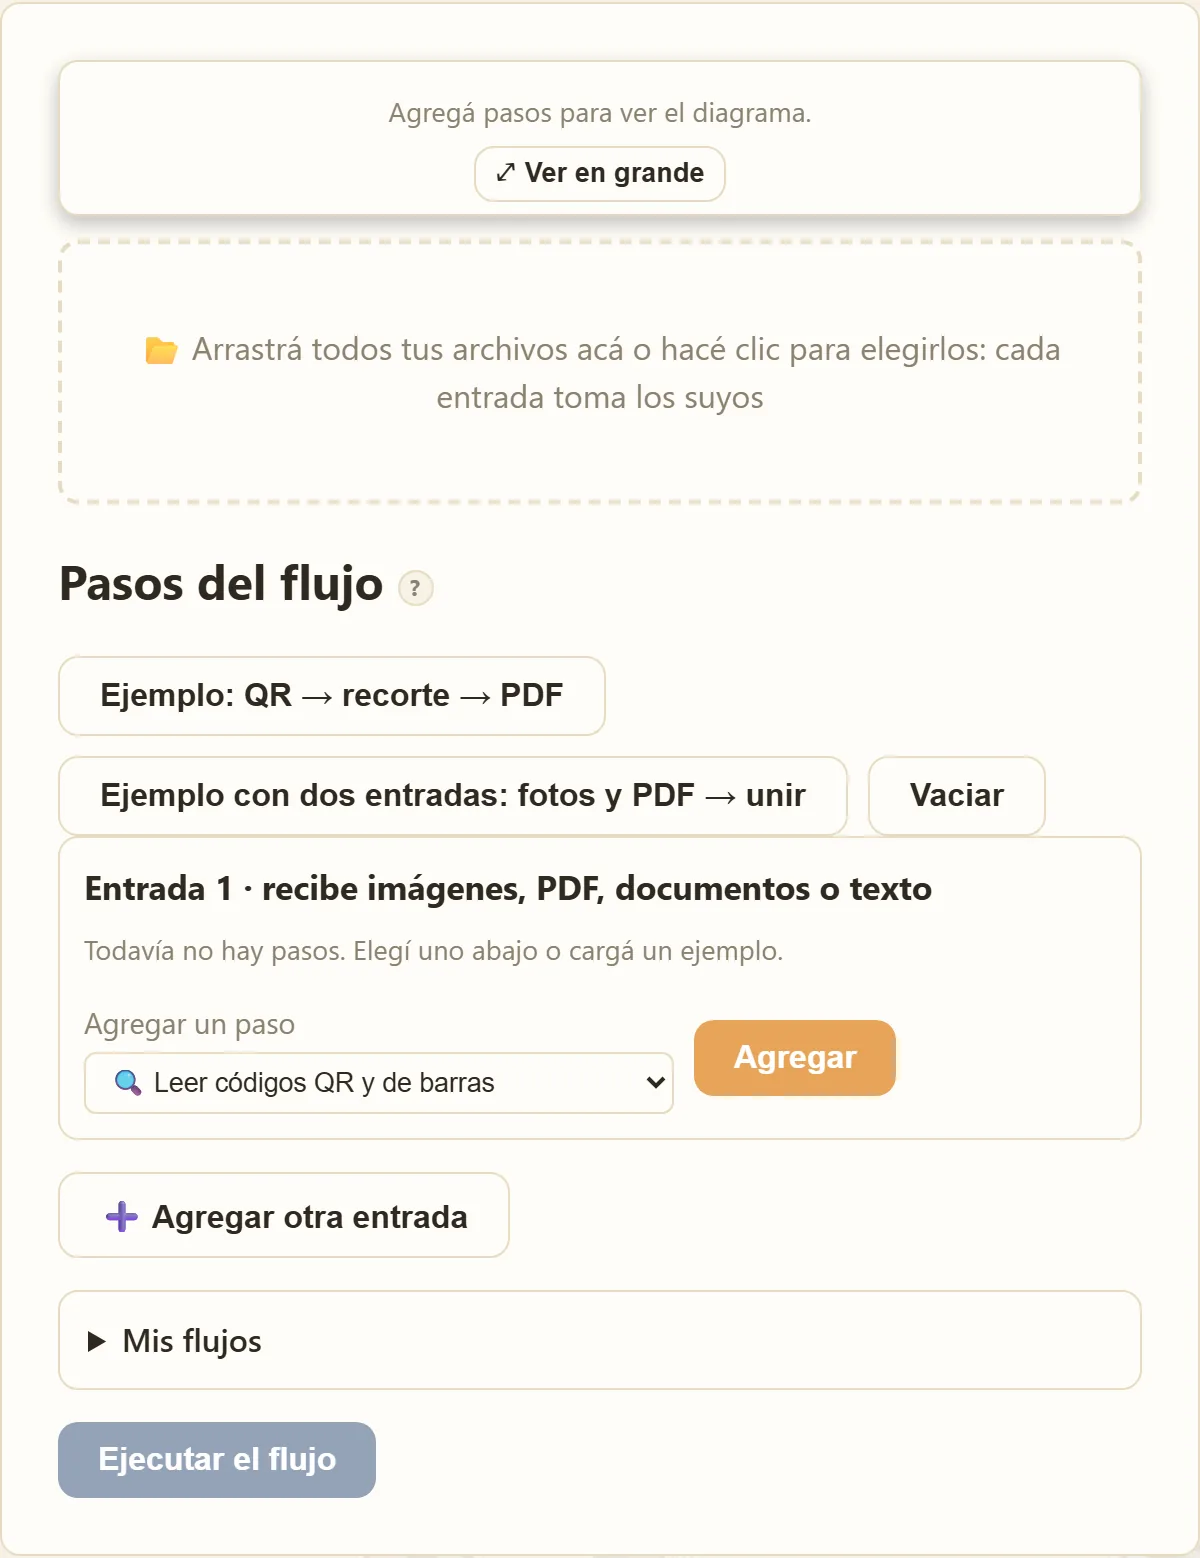
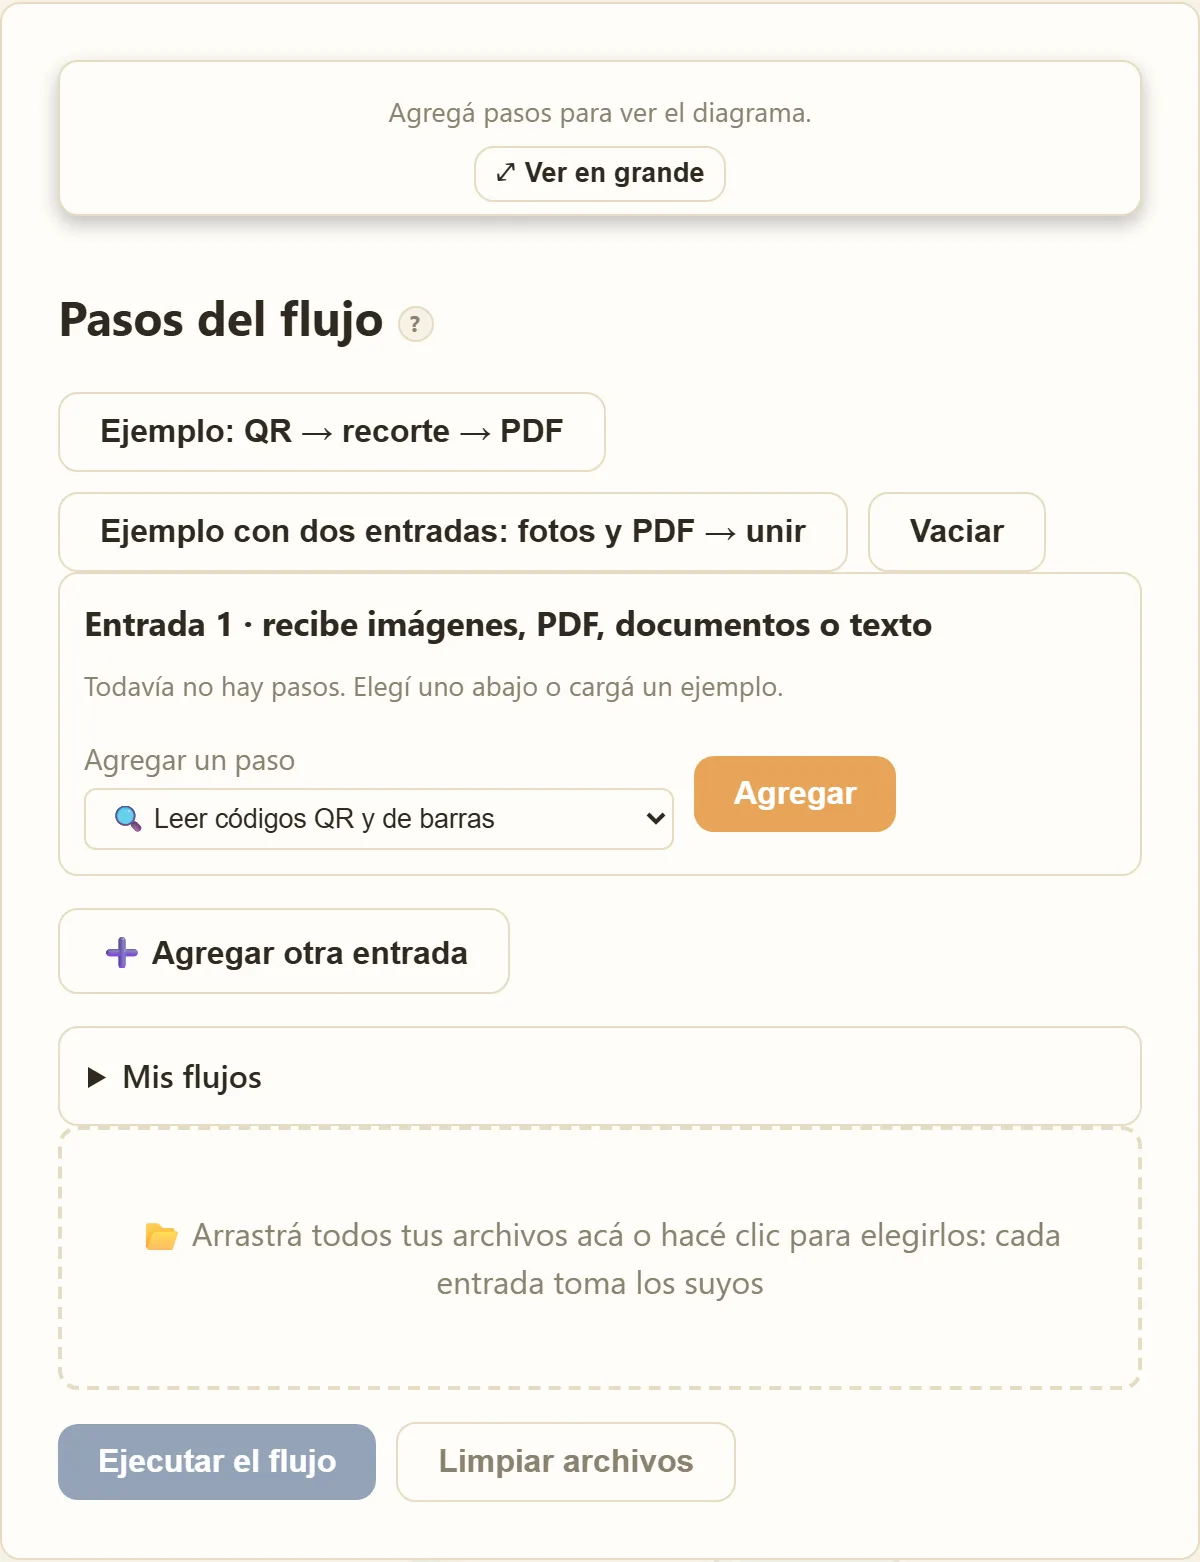
Flujos guide: new position of the file area, Clear files button, new screenshot

diff --git a/guias/encadenar-herramientas-con-flujos.html b/guias/encadenar-herramientas-con-flujos.html
@@ -23,9 +23,9 @@ window.i18nPagina = {
     'b6-1': 'Elegí el primer paso de la «Entrada 1». Ese paso decide qué recibe la entrada: el encabezado dice, por ejemplo, «Entrada 1 · recibe imágenes».',
     'b6-2': 'Agregá los siguientes con «Agregar». La lista solo ofrece los pasos que reciben lo que sale del anterior, así que no se puede armar una cadena imposible.',
     'b6-3': 'Ajustá las opciones de cada paso. Los valores por defecto sirven para empezar. Si tenés otra clase de archivo, tocá «Agregar otra entrada» (hasta cuatro).',
-    'b6-4': 'Arrastrá todos los archivos a la zona: cada entrada toma los de su tipo. El resumen dice qué va a salir, por ejemplo «Entrega: PDF.» Después tocá «Ejecutar el flujo», que se activa cuando el flujo está bien armado y hay archivos.',
+    'b6-4': 'Abajo, justo encima de «Ejecutar el flujo», está la zona de archivos: arrastrá ahí todos los archivos, y cada entrada toma los de su tipo. El resumen dice qué va a salir, por ejemplo «Entrega: PDF.» Después tocá «Ejecutar el flujo», que se activa cuando el flujo está bien armado y hay archivos. «Limpiar archivos», al lado, los quita para empezar con otros sin tocar los pasos.',
     'b6-5': 'Con un solo resultado aparece «Descargar» con su nombre. Con varios, «Descargar todo (.zip)».',
-    'b7': 'Flujos al abrirlo: todavía sin pasos, con los dos ejemplos listos para cargar y el primer paso por elegir.',
+    'b7': 'Flujos al abrirlo: todavía sin pasos, con los dos ejemplos listos para cargar y, al final, la zona de archivos con «Ejecutar el flujo» y «Limpiar archivos» al lado.',
     'b7-src': '/guias/img/flujos-1.es.webp',
     'b7-srco': '/guias/img/flujos-1.oscuro.es.webp',
     'b8': 'Con «Ver en grande» se abre el diagrama completo del flujo, con cada paso en el orden en que se aplica.',
@@ -112,9 +112,9 @@ window.i18nPagina = {
     'b6-1': 'Pick the first step of “Input 1”. That step decides what the input takes: the heading says, for example, “Input 1 · takes images”.',
     'b6-2': 'Add the next ones with “Add”. The list only offers the steps that take what the previous one produces, so you cannot build an impossible chain.',
     'b6-3': 'Adjust the options of each step. The default values are a good place to start. If you have another kind of file, press “Add another input” (up to four).',
-    'b6-4': 'Drag all the files onto the area: each input takes the ones of its type. The summary says what will come out, for example “Produces: PDF.” Then press “Run the flow”, which turns on when the flow is valid and there are files.',
+    'b6-4': 'At the bottom, right above “Run the flow”, is the file area: drag all the files onto it, and each input takes the ones of its type. The summary says what will come out, for example “Produces: PDF.” Then press “Run the flow”, which turns on when the flow is valid and there are files. “Clear files”, next to it, removes them so you can start with others without touching the steps.',
     'b6-5': 'With a single result, a “Download” button appears with its name. With several, “Download all (.zip)”.',
-    'b7': 'Flows when you open it: no steps yet, with the two examples ready to load and the first step still to choose.',
+    'b7': 'Flows when you open it: no steps yet, with the two examples ready to load and, at the bottom, the file area with “Run the flow” and “Clear files” next to it.',
     'b7-src': '/guias/img/flujos-1.en.webp',
     'b7-srco': '/guias/img/flujos-1.oscuro.en.webp',
     'b8': 'With “See it large” the full diagram of the flow opens, with each step in the order it is applied.',
@@ -220,13 +220,13 @@ window.i18nPagina = {
       <li data-i18n-html="b6-1">Elegí el primer paso de la «Entrada 1». Ese paso decide qué recibe la entrada: el encabezado dice, por ejemplo, «Entrada 1 · recibe imágenes».</li>
       <li data-i18n-html="b6-2">Agregá los siguientes con «Agregar». La lista solo ofrece los pasos que reciben lo que sale del anterior, así que no se puede armar una cadena imposible.</li>
       <li data-i18n-html="b6-3">Ajustá las opciones de cada paso. Los valores por defecto sirven para empezar. Si tenés otra clase de archivo, tocá «Agregar otra entrada» (hasta cuatro).</li>
-      <li data-i18n-html="b6-4">Arrastrá todos los archivos a la zona: cada entrada toma los de su tipo. El resumen dice qué va a salir, por ejemplo «Entrega: PDF.» Después tocá «Ejecutar el flujo», que se activa cuando el flujo está bien armado y hay archivos.</li>
+      <li data-i18n-html="b6-4">Abajo, justo encima de «Ejecutar el flujo», está la zona de archivos: arrastrá ahí todos los archivos, y cada entrada toma los de su tipo. El resumen dice qué va a salir, por ejemplo «Entrega: PDF.» Después tocá «Ejecutar el flujo», que se activa cuando el flujo está bien armado y hay archivos. «Limpiar archivos», al lado, los quita para empezar con otros sin tocar los pasos.</li>
       <li data-i18n-html="b6-5">Con un solo resultado aparece «Descargar» con su nombre. Con varios, «Descargar todo (.zip)».</li>
     </ol>
     <figure class="guia-figura">
-      <img class="img-clara" src="/guias/img/flujos-1.es.webp" alt="Flujos al abrirlo: todavía sin pasos, con los dos ejemplos listos para cargar y el primer paso por elegir." width="600" height="779" loading="lazy" decoding="async" data-i18n-attr="alt:b7;src:b7-src">
-      <img class="img-oscura" src="/guias/img/flujos-1.oscuro.es.webp" alt="Flujos al abrirlo: todavía sin pasos, con los dos ejemplos listos para cargar y el primer paso por elegir." width="600" height="779" loading="lazy" decoding="async" data-i18n-attr="alt:b7;src:b7-srco">
-      <figcaption data-i18n="b7">Flujos al abrirlo: todavía sin pasos, con los dos ejemplos listos para cargar y el primer paso por elegir.</figcaption>
+      <img class="img-clara" src="/guias/img/flujos-1.es.webp" alt="Flujos al abrirlo: todavía sin pasos, con los dos ejemplos listos para cargar y, al final, la zona de archivos con «Ejecutar el flujo» y «Limpiar archivos» al lado." width="600" height="781" loading="lazy" decoding="async" data-i18n-attr="alt:b7;src:b7-src">
+      <img class="img-oscura" src="/guias/img/flujos-1.oscuro.es.webp" alt="Flujos al abrirlo: todavía sin pasos, con los dos ejemplos listos para cargar y, al final, la zona de archivos con «Ejecutar el flujo» y «Limpiar archivos» al lado." width="600" height="781" loading="lazy" decoding="async" data-i18n-attr="alt:b7;src:b7-srco">
+      <figcaption data-i18n="b7">Flujos al abrirlo: todavía sin pasos, con los dos ejemplos listos para cargar y, al final, la zona de archivos con «Ejecutar el flujo» y «Limpiar archivos» al lado.</figcaption>
     </figure>
     <figure class="guia-figura">
       <img class="img-clara" src="/guias/img/flujos-3.es.webp" alt="Con «Ver en grande» se abre el diagrama completo del flujo, con cada paso en el orden en que se aplica." width="602" height="374" loading="lazy" decoding="async" data-i18n-attr="alt:b8;src:b8-src">
